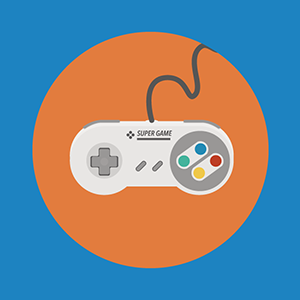
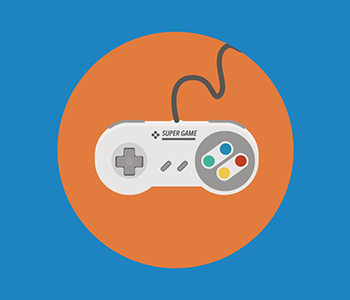
Add styles to shopping cart

diff --git a/app/assets/stylesheets/application.sass b/app/assets/stylesheets/application.sass
@@ -20,3 +20,12 @@
     font-size: 16px
   .caption
     margin-left: 3%
+
+.shopping-cart
+  margin-top: 8%
+  #order_item_quantity
+    width: 50px
+    text-align: center
+  .total
+    font-weight: 700
+    font-size: 16px

diff --git a/app/models/product.rb b/app/models/product.rb
@@ -1,5 +1,5 @@
 class Product < ActiveRecord::Base
   has_many :order_items
-  has_attached_file :picture, styles: { medium: "300x300>", thumb: "100x100>" }, default_url: ":style/missing.png"
+  has_attached_file :picture, styles: { medium: "350x300>", thumb: "150x100>" }, default_url: ":style/missing.png"
   validates_attachment_content_type :picture, content_type: /\Aimage\/.*\Z/
 end
